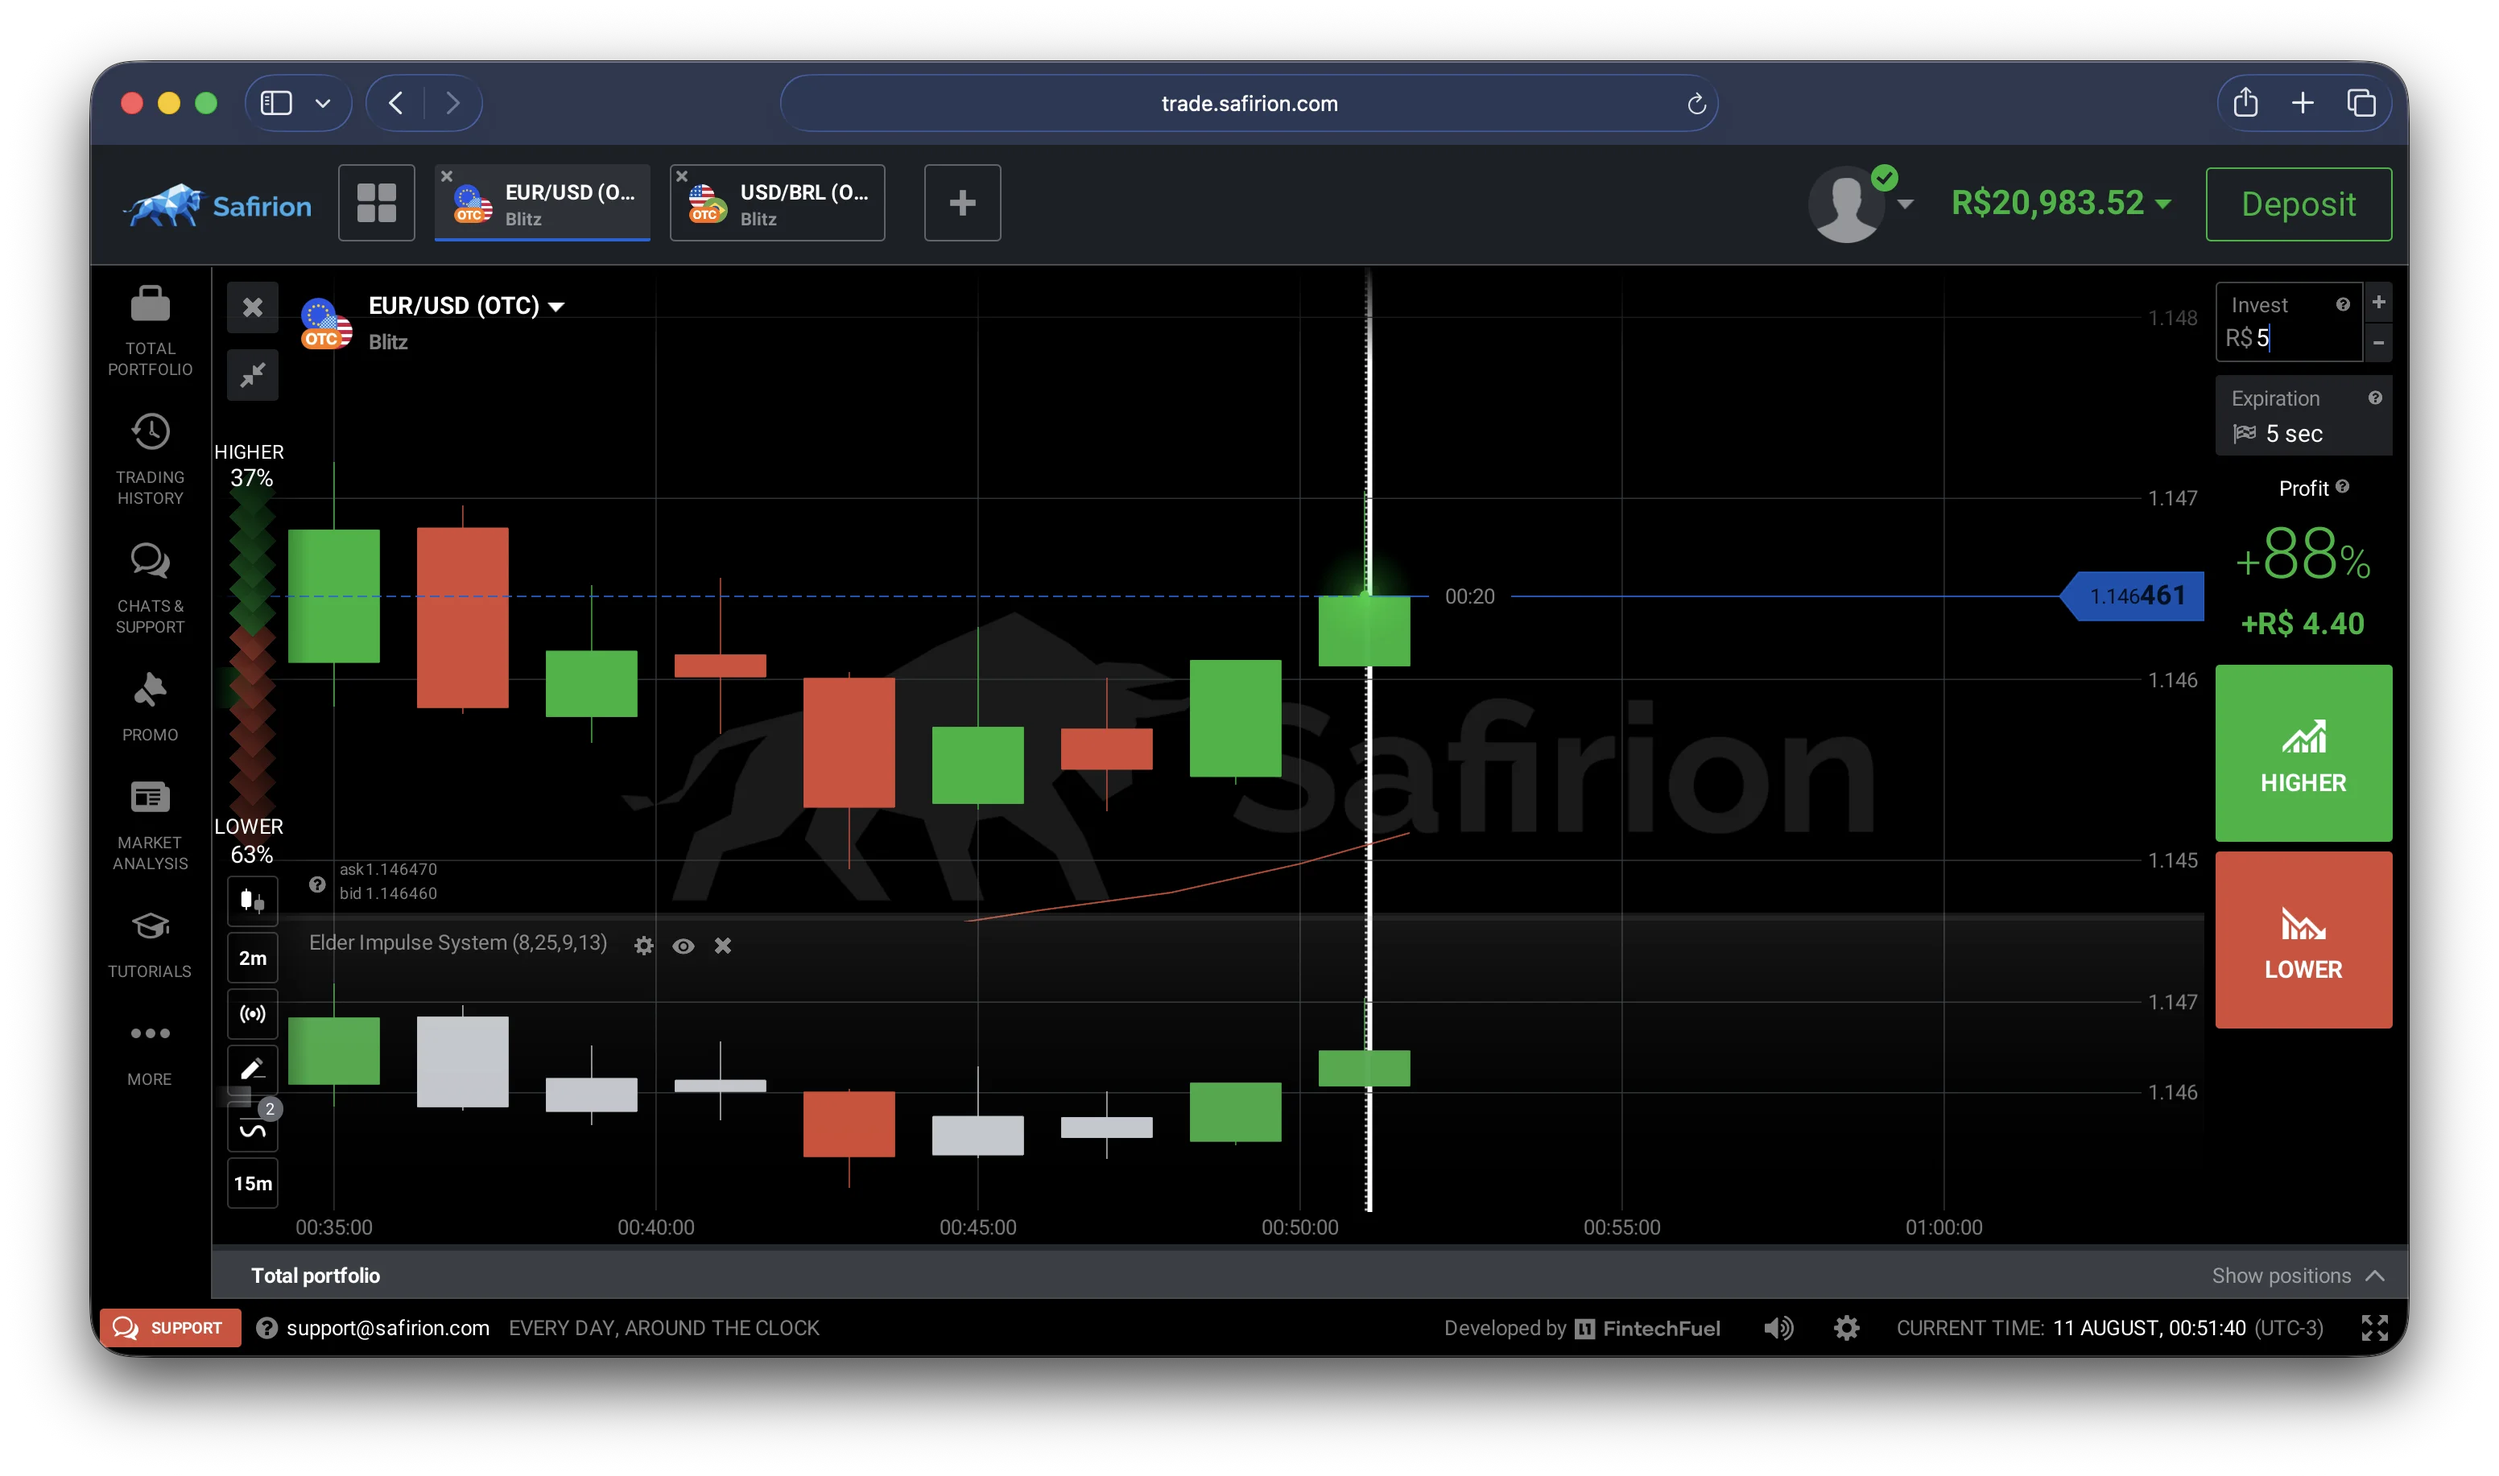
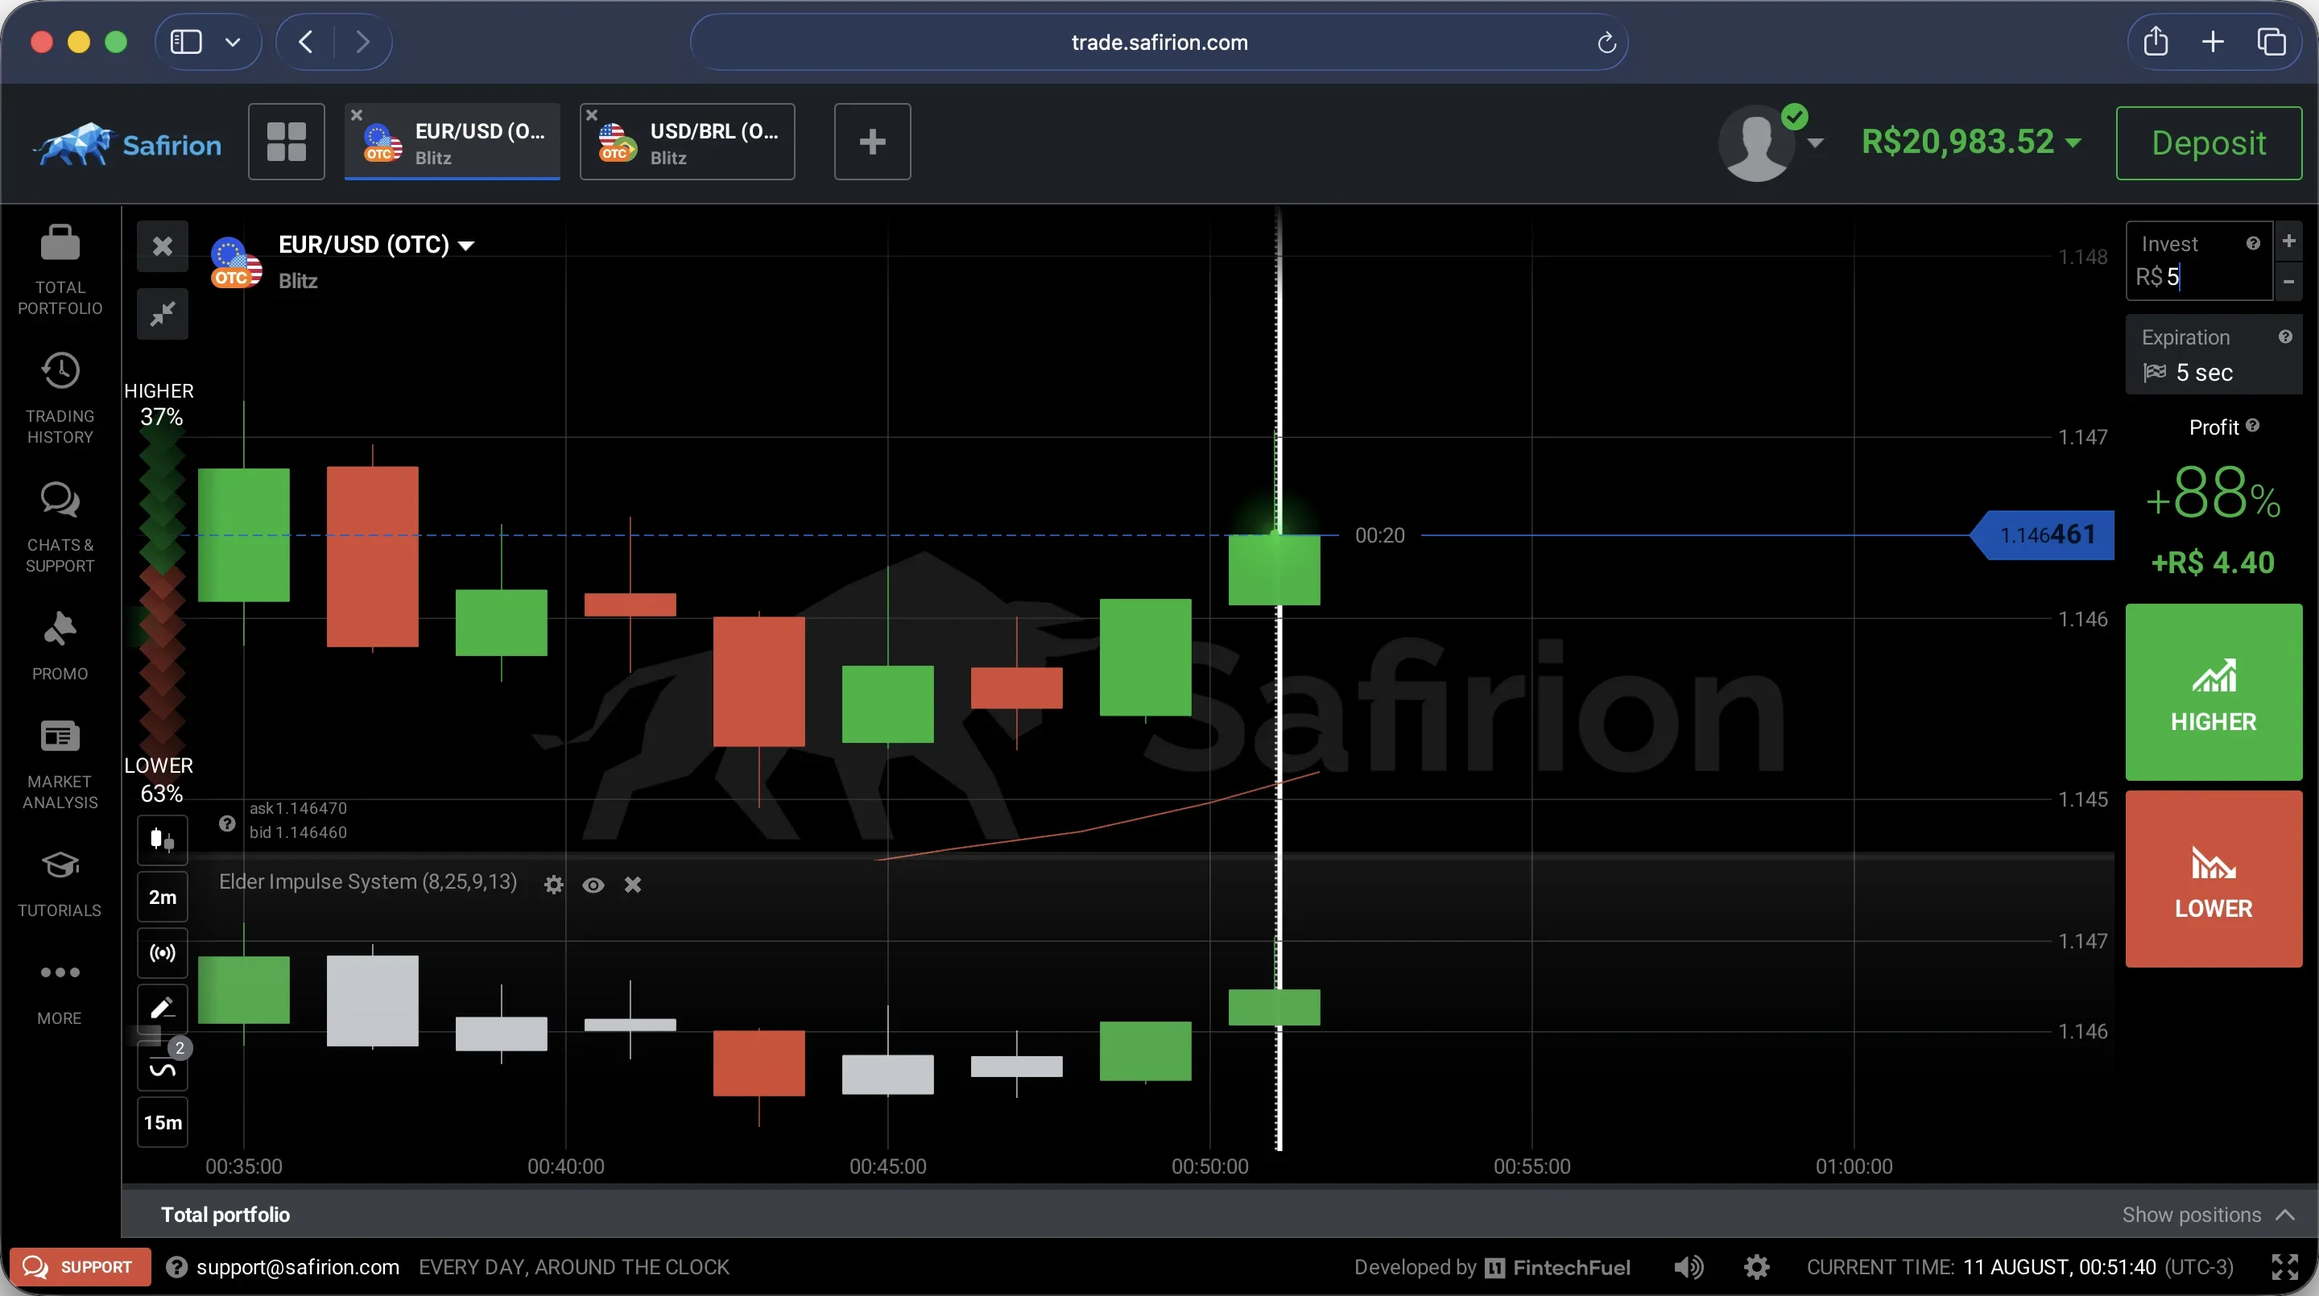
Remove a margem entre a captura e a moldura do laptop
Eram duas causas somadas:

1. A caixa da imagem nao cobria a moldura. O .framer-njfdt1 e um flex que
   centraliza os filhos, entao a imagem projetava 912x399 dentro de um frame
   de 923x430 — sobravam 31px embaixo. A caixa agora e position:absolute
   com inset:0, cobrindo a moldura exata.

2. O proprio arquivo tinha moldura preta embutida: a captura do macOS pegou
   a mesa junto com a janela do Safari. Deteccao por pixel achou L112 T76
   R112 B148; recortado para 2880x1610 e a moldura passou a usar essa
   proporcao (1.789).

Bonus: 168 KB -> 113 KB depois do recorte.

diff --git a/public/index.html b/public/index.html
@@ -449,7 +449,7 @@ fbq('track','PageView');
   if (document.readyState !== 'loading') init();
   else document.addEventListener('DOMContentLoaded', init);
 })();</script>
-<!-- [kv] Laptop do hero: maior e com o glow contido. --><style id="kv-laptop-maior">@media(min-width:1200px){.framer-1pnrd1d{width:min(1220px,94%)!important}}.framer-1pnrd1d{align-items:stretch!important}.framer-njfdt1{width:100%!important;aspect-ratio:964/546;height:auto!important}@media(min-width:810px) and (max-width:1199px){.framer-1pnrd1d{width:94%!important}}.framer-1pnrd1d::after{width:86%!important;height:110px!important;bottom:-6px!important;filter:blur(46px)!important;opacity:.75}</style></head>
+<!-- [kv] Laptop do hero: maior e com o glow contido. --><style id="kv-laptop-maior">@media(min-width:1200px){.framer-1pnrd1d{width:min(1220px,94%)!important}}.framer-1pnrd1d{align-items:stretch!important}.framer-njfdt1{width:100%!important;aspect-ratio:2880/1610;height:auto!important;position:relative!important;padding:0!important;overflow:hidden!important;border-radius:24px!important}.framer-11zh79g{position:absolute!important;inset:0!important;width:auto!important;height:auto!important;flex:none!important;border-radius:24px!important}@media(min-width:810px) and (max-width:1199px){.framer-1pnrd1d{width:94%!important}}.framer-1pnrd1d::after{width:86%!important;height:110px!important;bottom:-6px!important;filter:blur(46px)!important;opacity:.75}</style></head>
 <body>
 	
 	<!-- Start of bodyStart -->
